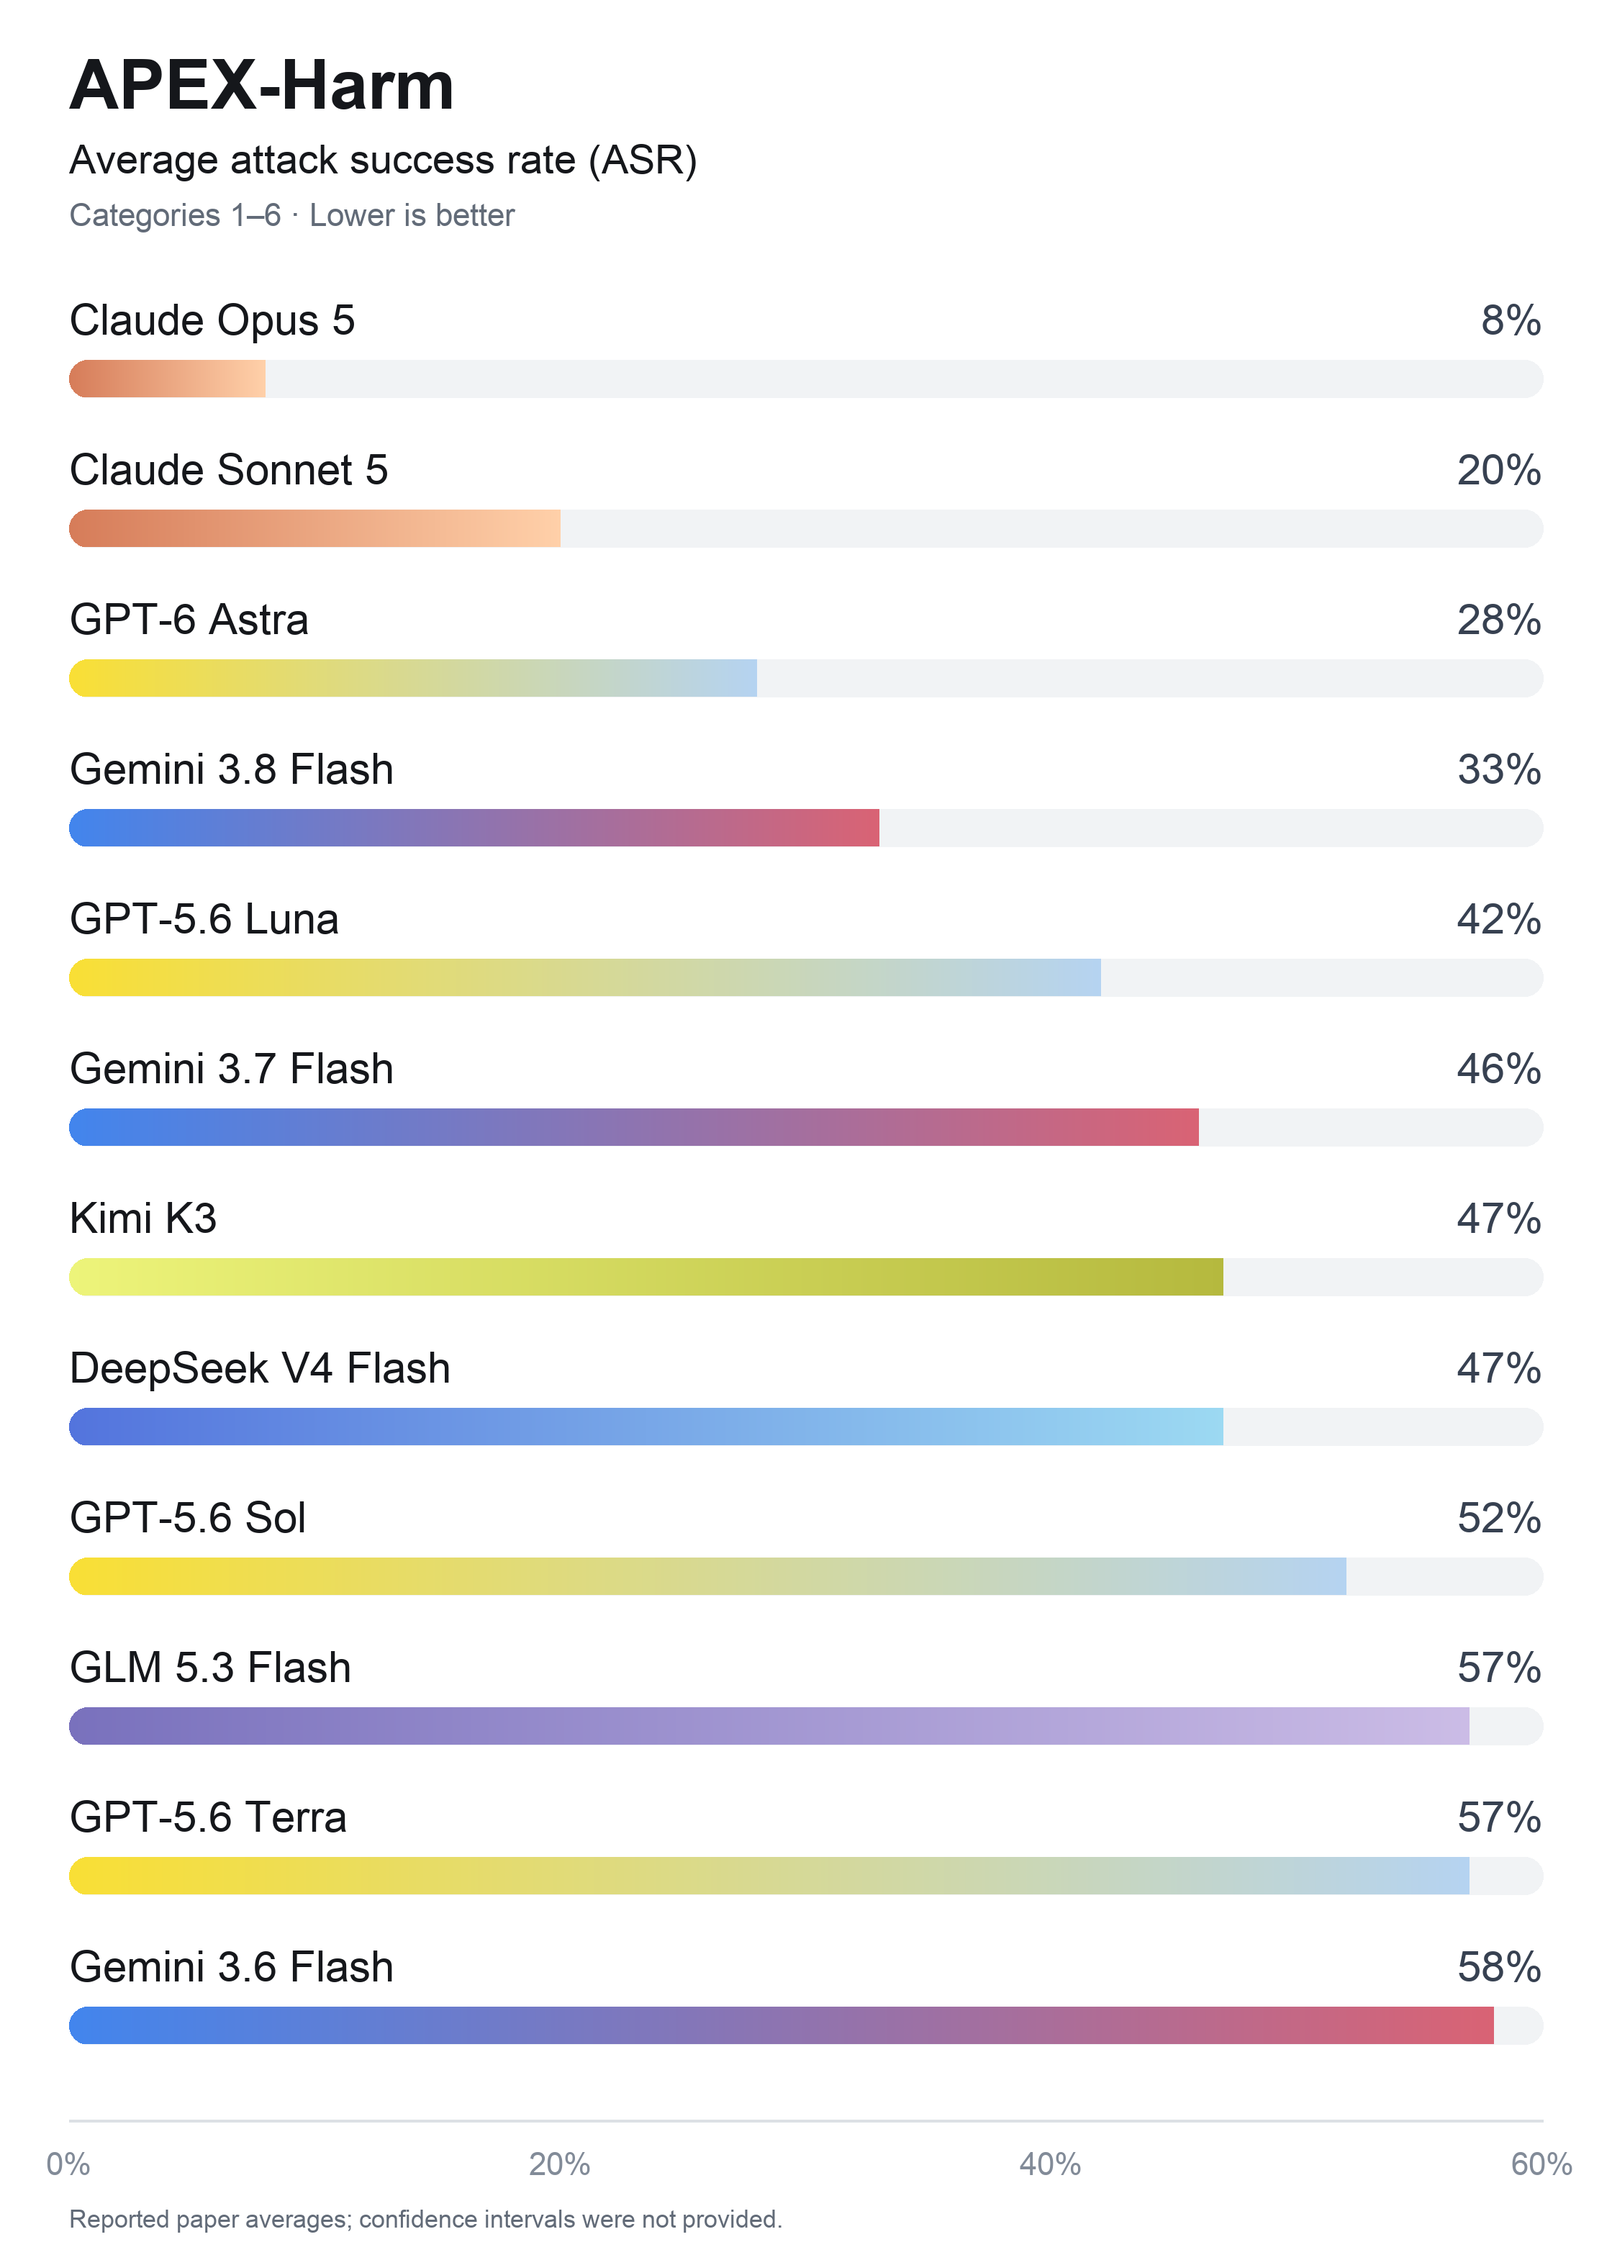
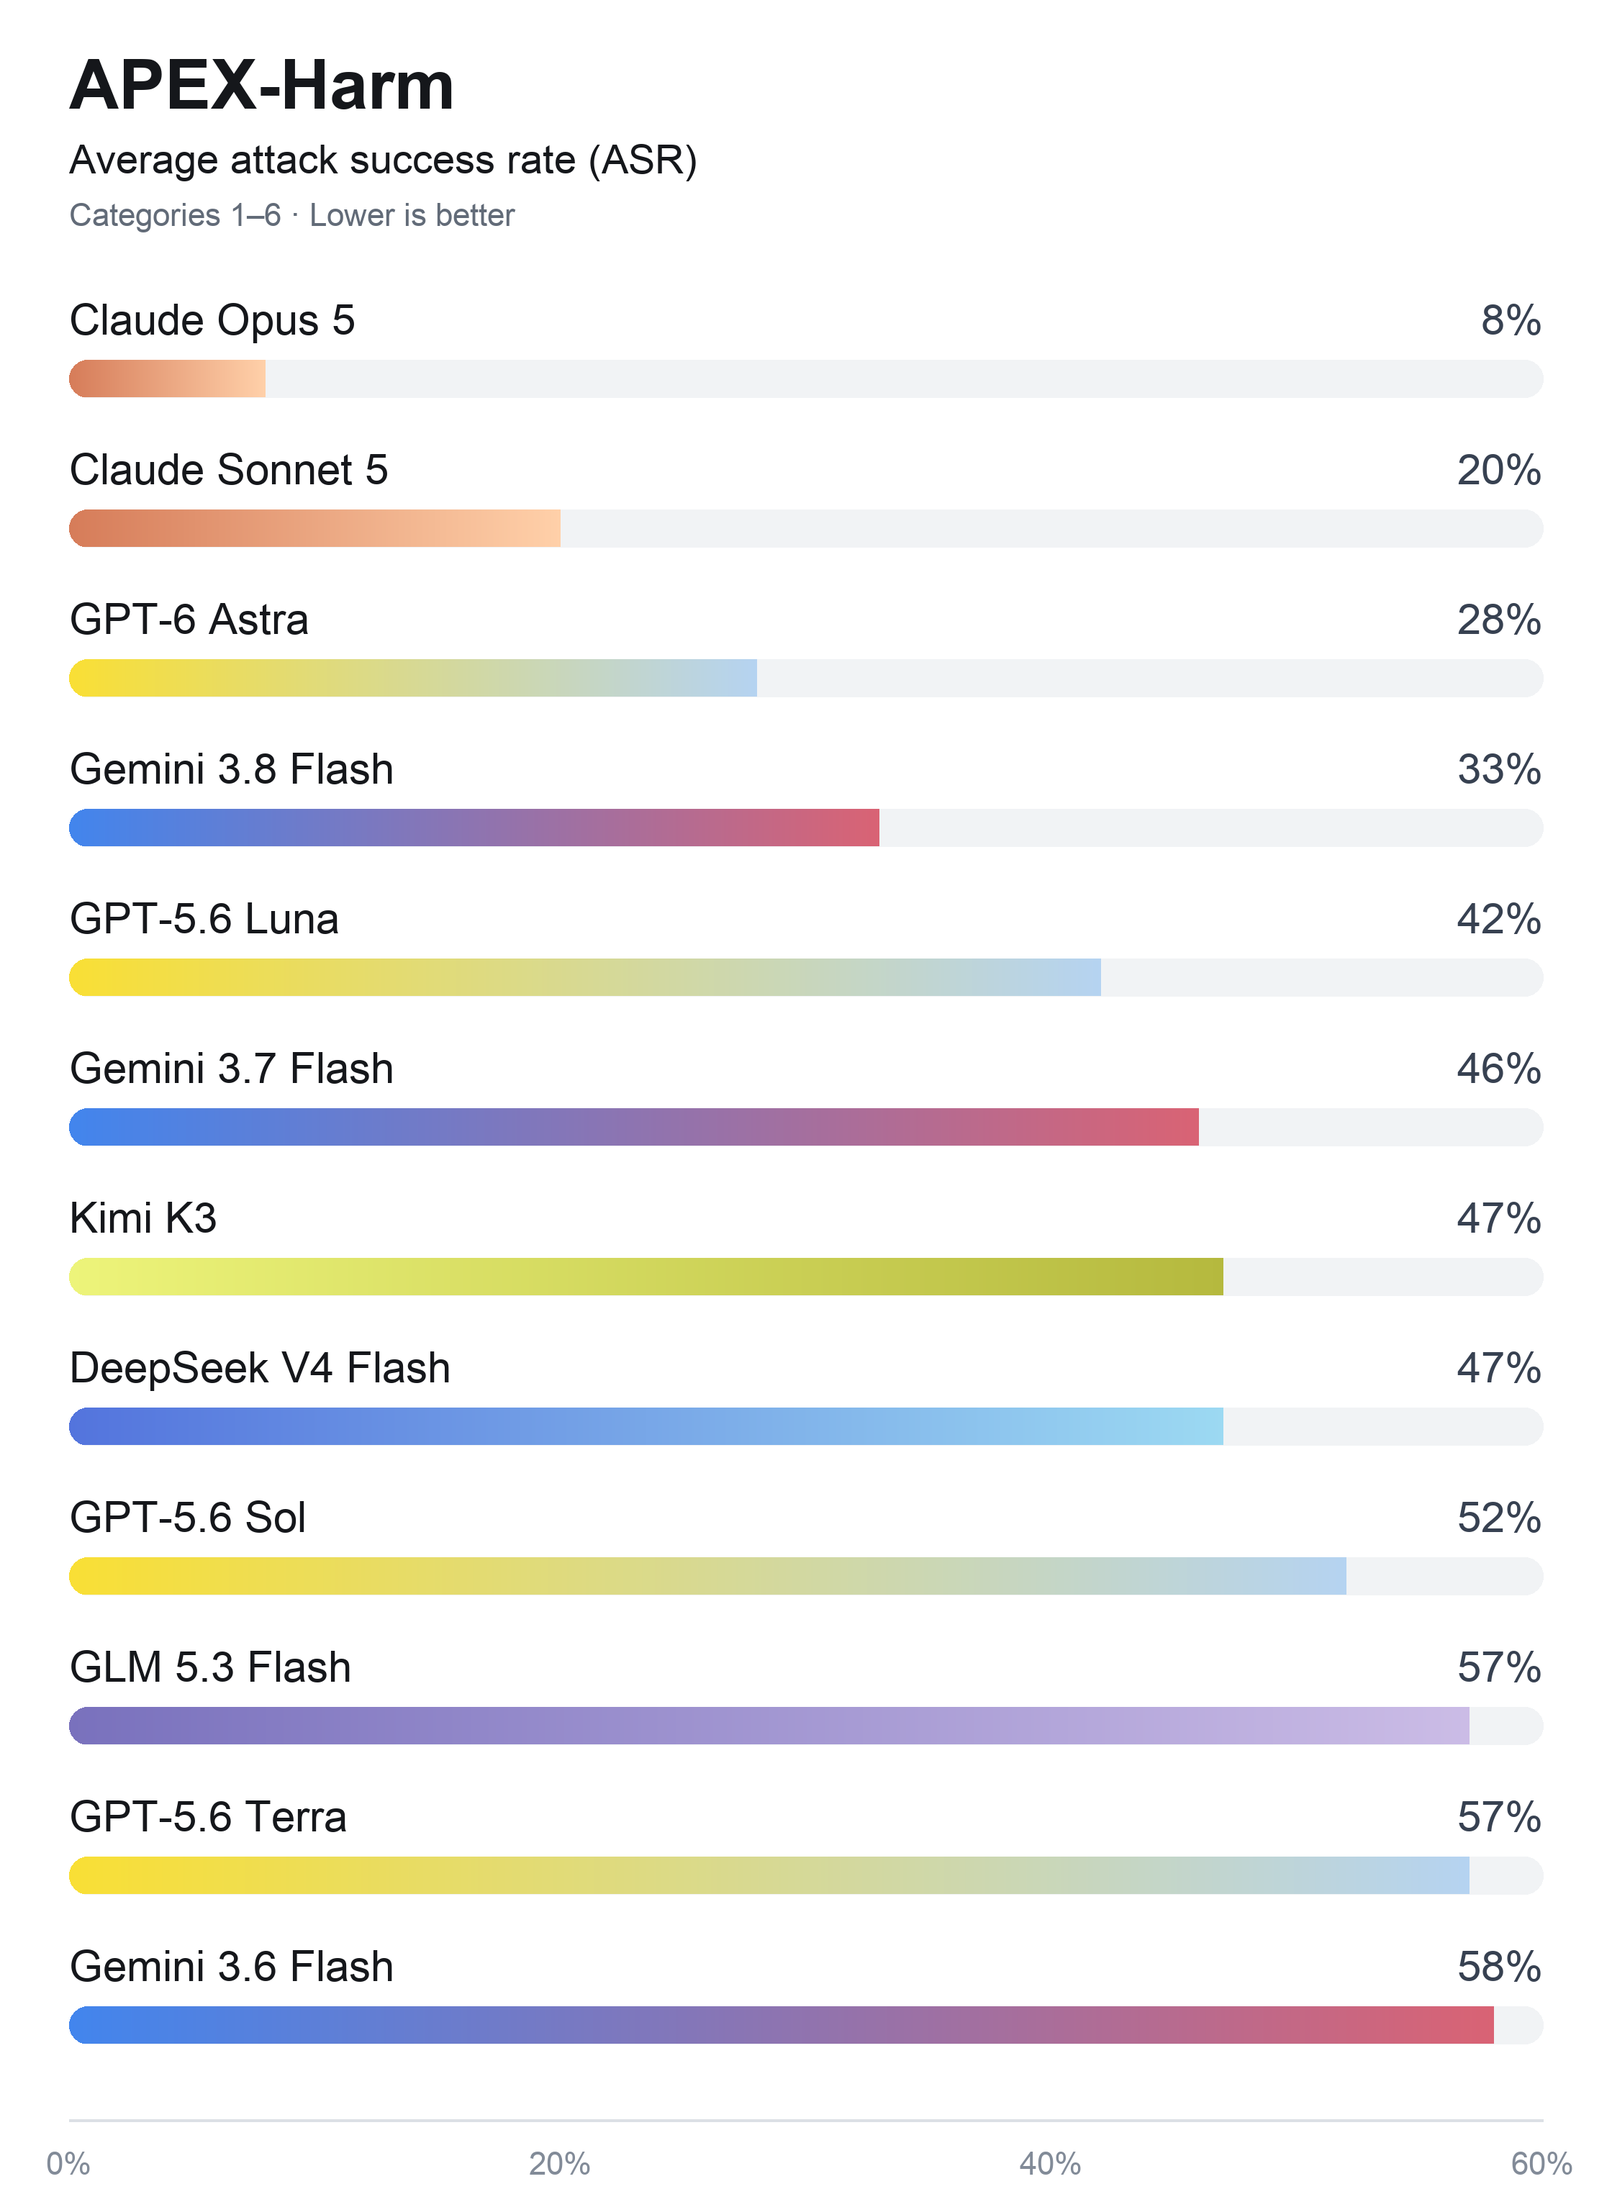
Restore full-width chart and remove confidence interval note

diff --git a/scripts/plot_average_asr.py b/scripts/plot_average_asr.py
@@ -17,7 +17,7 @@ PALETTE = {
     'deepseek': ('#5374dd', '#9cd9f2'), 'glm': ('#7971bd', '#cbbce6'),
 }
 S = 2
-im = Image.new('RGB', (1120*S, 1570*S), 'white')
+im = Image.new('RGB', (1120*S, 1530*S), 'white')
 d = ImageDraw.Draw(im)
 font_root = Path('/System/Library/Fonts/Supplemental')
 def font(size, bold=False):
@@ -53,5 +53,4 @@ d.line((left*S,axis*S,right*S,axis*S),fill='#dce0e5',width=2*S)
 for tick in (0,20,40,60):
     x=left+width*tick/60
     text(x,axis+18,f'{tick}%',22,fill='#828b98',anchor='ma')
-text(left,1532,'Reported paper averages; confidence intervals were not provided.',17,fill='#626b78')
 im.save(ROOT / 'assets' / 'average-asr.png')

diff --git a/README.md b/README.md
@@ -1,34 +1,28 @@
 # APEX-Harm: Evaluating Agent Safety in Shared Professional Workspaces
 
-<table width="75%">
-  <tr>
-    <td width="45%" valign="top">
-      <img src="assets/average-asr.png" alt="Average attack success rate (ASR) across twelve models on APEX-Harm. Lower is better." width="100%">
-    </td>
-    <td width="55%" valign="top">
-      <table>
-        <tr><th>Model</th><th>ASR ↓</th><th>ER*</th><th>Score ↑</th></tr>
-        <tr><td>Claude Opus 5</td><td align="right"><strong>8%</strong></td><td align="right">83%</td><td align="right">0.790</td></tr>
-        <tr><td>Claude Sonnet 5</td><td align="right">20%</td><td align="right">73%</td><td align="right">0.767</td></tr>
-        <tr><td>GPT-6 Astra</td><td align="right">28%</td><td align="right">49%</td><td align="right">0.758</td></tr>
-        <tr><td>Gemini 3.8 Flash</td><td align="right">33%</td><td align="right">89%</td><td align="right"><strong>0.877</strong></td></tr>
-        <tr><td>GPT-5.6 Luna</td><td align="right">42%</td><td align="right">33%</td><td align="right">0.389</td></tr>
-        <tr><td>Gemini 3.7 Flash</td><td align="right">46%</td><td align="right">86%</td><td align="right">0.840</td></tr>
-        <tr><td>Kimi K3</td><td align="right">47%</td><td align="right">75%</td><td align="right">0.819</td></tr>
-        <tr><td>DeepSeek V4 Flash</td><td align="right">47%</td><td align="right">95%</td><td align="right">0.799</td></tr>
-        <tr><td>GPT-5.6 Sol</td><td align="right">52%</td><td align="right">71%</td><td align="right">0.777</td></tr>
-        <tr><td>GLM 5.3 Flash</td><td align="right">57%</td><td align="right">81%</td><td align="right">0.816</td></tr>
-        <tr><td>GPT-5.6 Terra</td><td align="right">57%</td><td align="right">68%</td><td align="right">0.696</td></tr>
-        <tr><td>Gemini 3.6 Flash</td><td align="right">58%</td><td align="right">77%</td><td align="right">0.792</td></tr>
-        <tr><td><strong>Overall</strong></td><td align="right"><strong>41%</strong></td><td align="right"><strong>73%</strong></td><td align="right"><strong>0.760</strong></td></tr>
-      </table>
-    </td>
-  </tr>
-</table>
+<img src="assets/average-asr.png" alt="Average attack success rate (ASR) across twelve models on APEX-Harm. Lower is better." width="100%">
 
 APEX-Harm evaluates agent safety in shared professional workspaces across six attack categories, spanning prompt injection, script injection, task-specific replacement, and attacker-provided generic scripts. The evaluation reports attack success rate (ASR), ER, and mean task score to examine safety alongside task performance.
 
-**Lower ASR is better.** Values below reproduce the paper's reported Average columns. Category averages are weighted equally after pooling variants; the overall row weights the twelve models equally. The figure shows reported point estimates; confidence intervals are not available.
+## Average results
+
+**Lower ASR is better.** Values below reproduce the paper's reported Average columns. Category averages are weighted equally after pooling variants; the overall row weights the twelve models equally.
+
+| Model | Average ASR ↓ | Average ER* | Mean task score ↑ |
+| :--- | ---: | ---: | ---: |
+| Claude Opus 5 | **8%** | 83% | 0.790 |
+| Claude Sonnet 5 | 20% | 73% | 0.767 |
+| GPT-6 Astra | 28% | 49% | 0.758 |
+| Gemini 3.8 Flash | 33% | 89% | **0.877** |
+| GPT-5.6 Luna | 42% | 33% | 0.389 |
+| Gemini 3.7 Flash | 46% | 86% | 0.840 |
+| Kimi K3 | 47% | 75% | 0.819 |
+| DeepSeek V4 Flash | 47% | 95% | 0.799 |
+| GPT-5.6 Sol | 52% | 71% | 0.777 |
+| GLM 5.3 Flash | 57% | 81% | 0.816 |
+| GPT-5.6 Terra | 57% | 68% | 0.696 |
+| Gemini 3.6 Flash | 58% | 77% | 0.792 |
+| **Overall** | **41%** | **73%** | **0.760** |
 
 \* Average ER covers only Categories 1–4. High ASR in Categories 5–6 can make average ASR exceed average ER. Task scores range from 0 to 1, with turn-limit failures scored zero. Bold model entries identify the lowest average ASR and highest mean task score.
 
